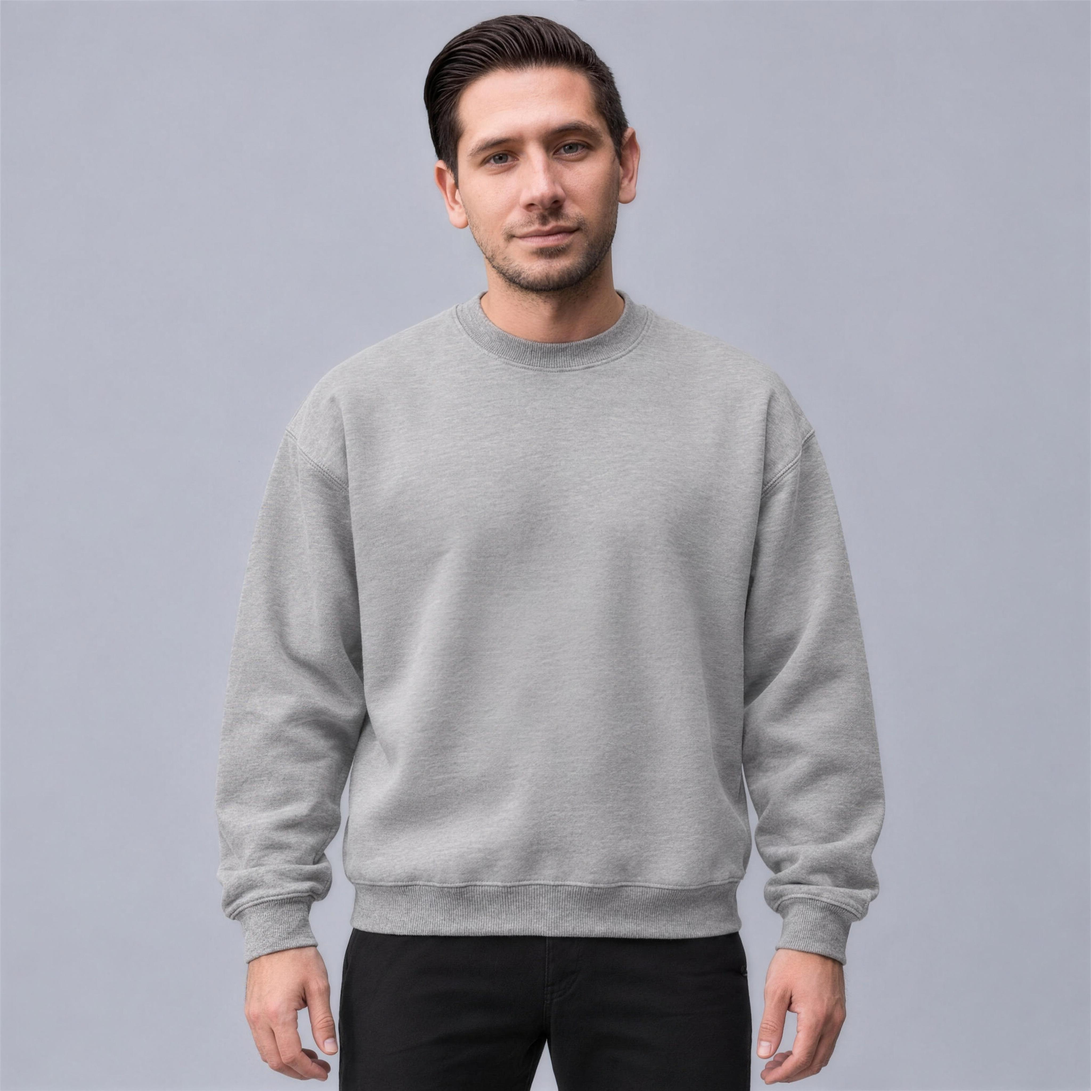
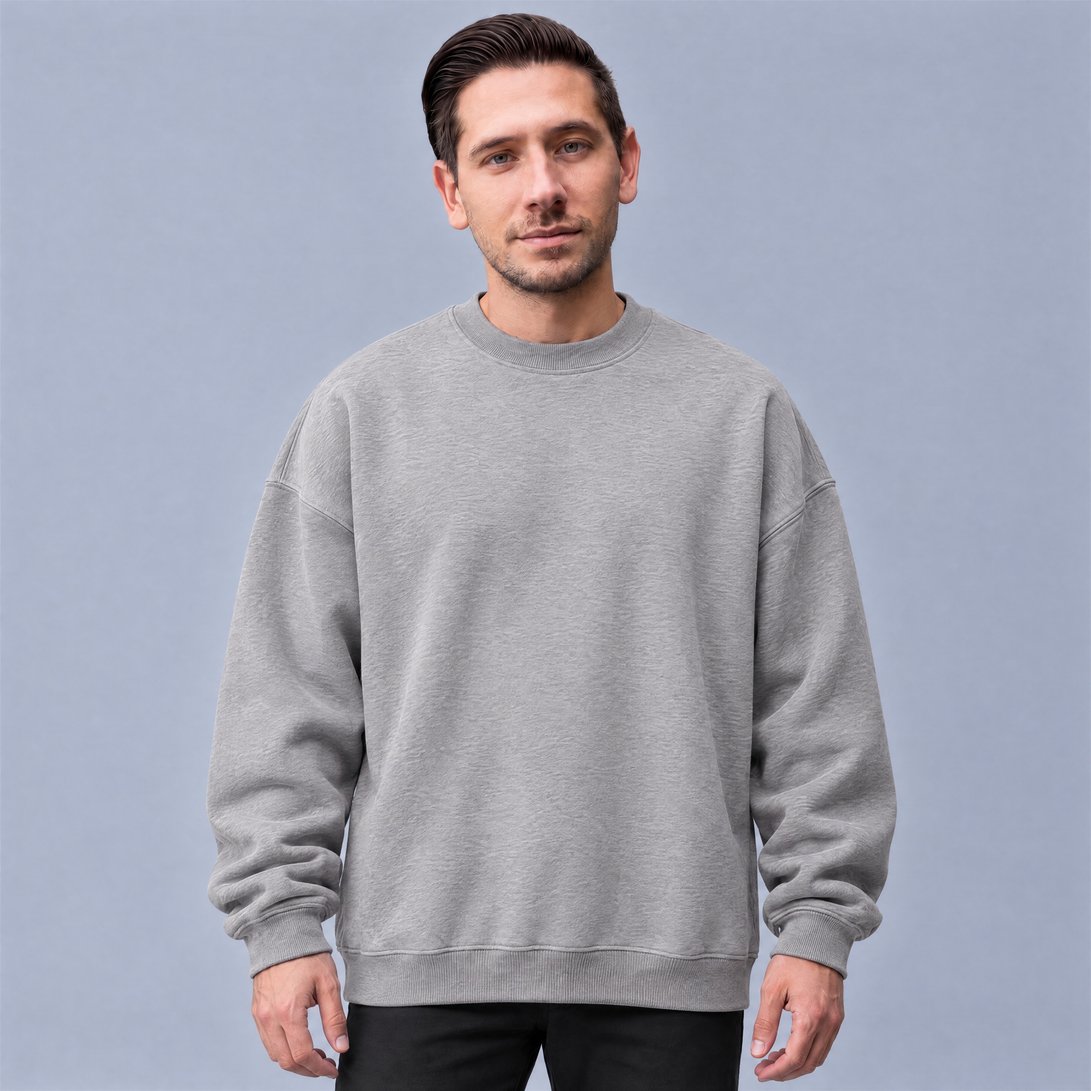
Sweatshirts refitted to Tapstitch's loose, long fit (Evan's reference photo)
Map sweatshirt front/back bases and the Be Peculiar sweatshirt blanks were
regenerated on Higgsfield with the same models and the fit taken from
Tapstitch's own on-model photo: long body to the upper thigh, dropped
shoulders, sleeves ending at the hem. Landmarks re-marked; the boxy bases are
kept in gen/boxy (gitignored pngs) and onmodel-v2/blanks_boxy.

Claude-Session: https://claude.ai/code/session_01XFpmDQkMABanSi7fEswVU4

diff --git a/artifacts/onmodel-maps/composite_maps.py b/artifacts/onmodel-maps/composite_maps.py
@@ -95,8 +95,10 @@ HOOD_TIP_Y = {"black": 1095, "coffee": 1125, "eden-green": 1110, "gray": 1105,
 BASE_LM = {
     ("tee", "front"): {"collar": [1437, 900], "hem": 2625, "chest": [907, 1925], "chest_y": 1775},
     ("tee", "back"): {"collar": [1437, 730], "hem": 2620, "chest": [917, 1930], "chest_y": 1740},
-    ("crew", "front"): {"collar": [1412, 825], "hem": 2375, "chest": [900, 1912], "chest_y": 1500},
-    ("crew", "back"): {"collar": [1412, 700], "hem": 2380, "chest": [912, 1925], "chest_y": 1500},
+    # Sweatshirt refitted 9 Oct 2026 to Tapstitch's own loose, long fit (Evan's
+    # reference photo, refs/crew_fit_tapstitch.jpg); the boxy first bases are in gen/boxy/.
+    ("crew", "front"): {"collar": [1412, 800], "hem": 2532, "chest": [900, 1925], "chest_y": 1500},
+    ("crew", "back"): {"collar": [1412, 675], "hem": 2537, "chest": [912, 1925], "chest_y": 1500},
     ("hoodie", "front"): {"collar": [1437, 895], "hem": 2520, "chest": [975, 1875], "chest_y": 1700},
     ("hoodie", "back"): {"collar": [1437, 800], "hem": 2520, "chest": [962, 1900], "chest_y": 1700,
                          "hood_point": 1095},

diff --git a/artifacts/photo-mockup-spike/composite_front_v2.py b/artifacts/photo-mockup-spike/composite_front_v2.py
@@ -121,7 +121,8 @@ def composite(photo, art_path, left, top, w, angle=0.0):
 # chest = the garment's left and right body edges where the sleeves meet it.
 BASE_LM = {
     "tee": ("tee_black", {"collar": [2045, 1294], "chest": [1470, 2600]}),
-    "crew": ("crew_black", {"collar": [2050, 1278], "chest": [1290, 2862]}),
+    # refitted 9 Oct 2026 to Tapstitch's loose, long fit; old blanks in blanks_boxy/
+    "crew": ("crew_black", {"collar": [2044, 1280], "chest": [1368, 2880]}),
     "hoodie": ("hoodie_gray", {"collar": [2037, 1180], "chest": [1479, 2586]}),
     "bomber_front": ("bomber_navy-blue_front", {"collar": [2008, 1428], "chest": [1300, 2720]}),
     "bomber_back": ("bomber_navy-blue_back", {"collar": [2010, 1144], "chest": [1312, 2714]}),
